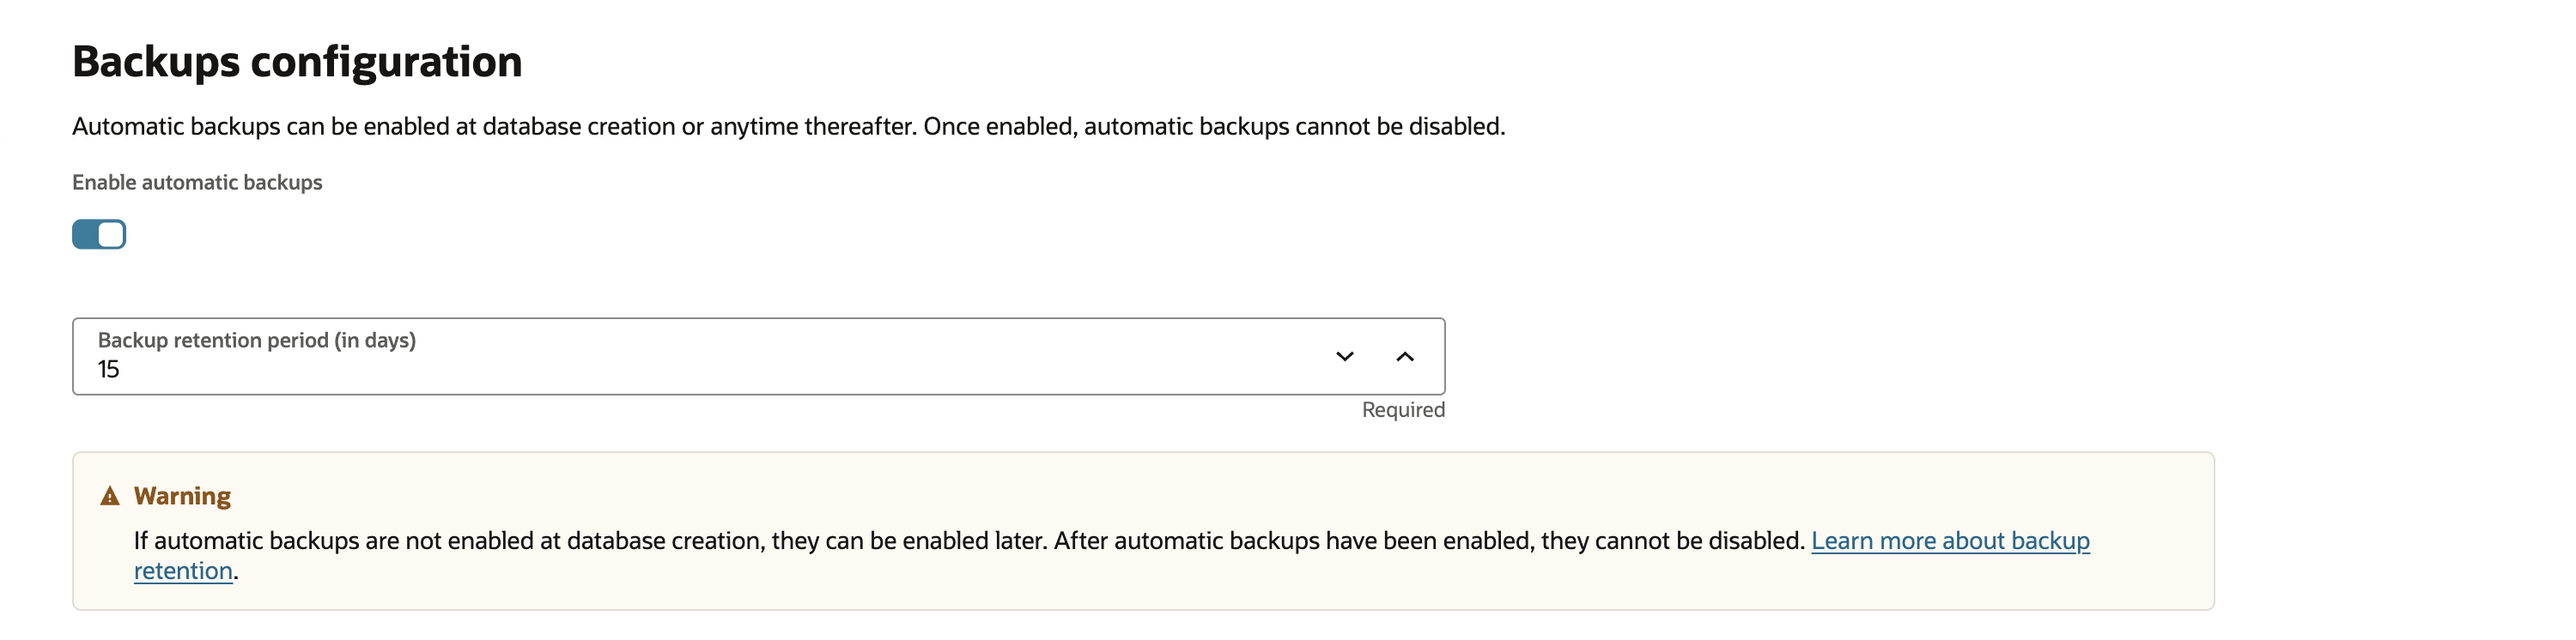
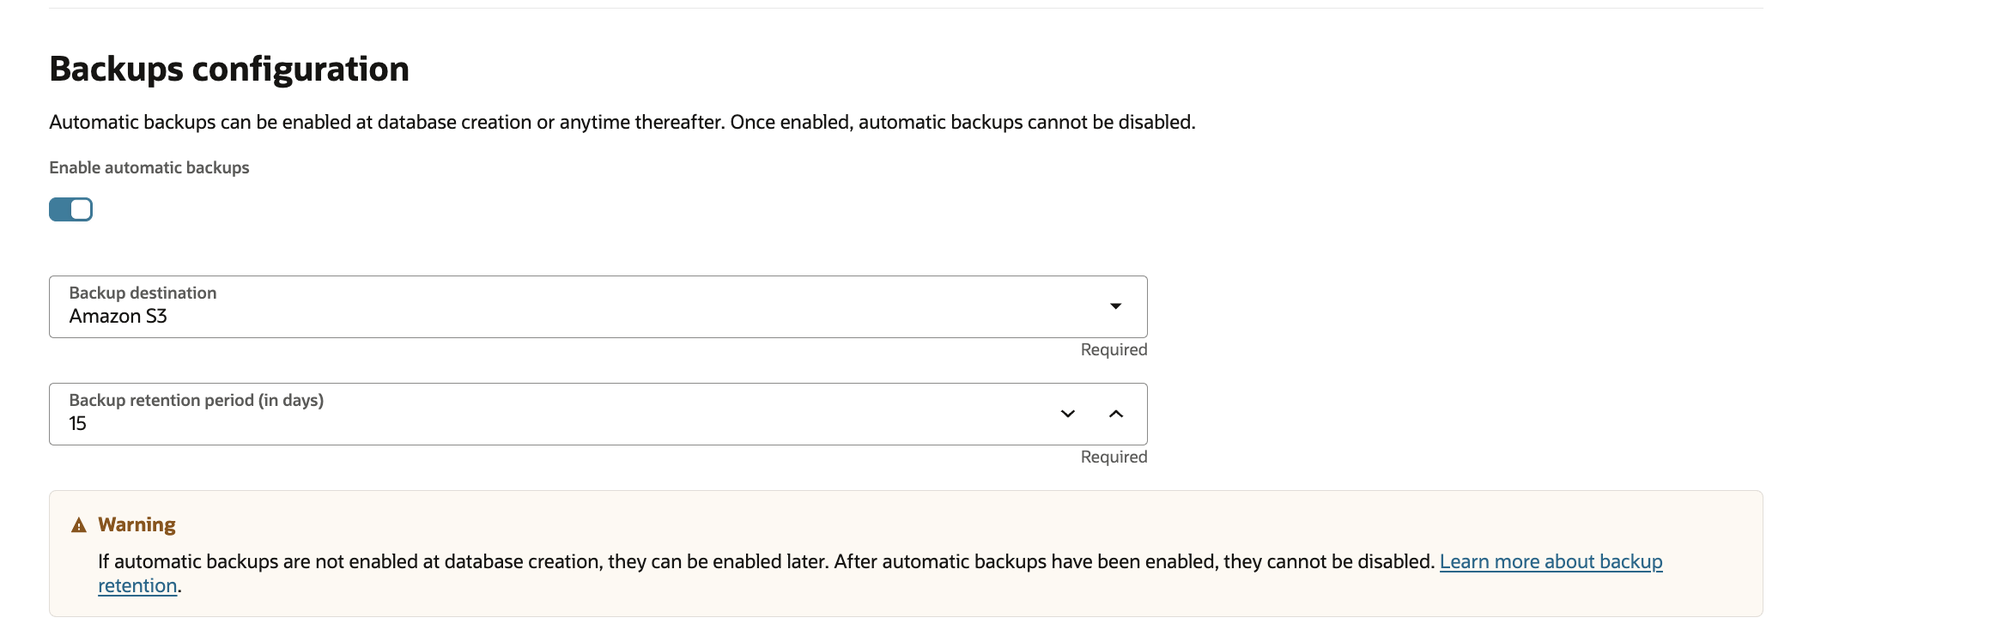
ACD changes
ACD changes

diff --git a/provisioning-acd/create-acd.md b/provisioning-acd/create-acd.md
@@ -59,6 +59,8 @@ Estimated Time: 30 minutes
 - In the Configure database backups section, configure database backups by specifying the settings for backing up the database.
 
   Enable automatic backup: Select to enable automatic backups for this database.
+  
+  NOTE: Automatic backups are stored in Amazon S3 by default, but you can choose to change the backup destination to Oracle Object Storage if preferred.
 
   ![This image shows the result of performing the above step.](./images/backup.png " ")
 
